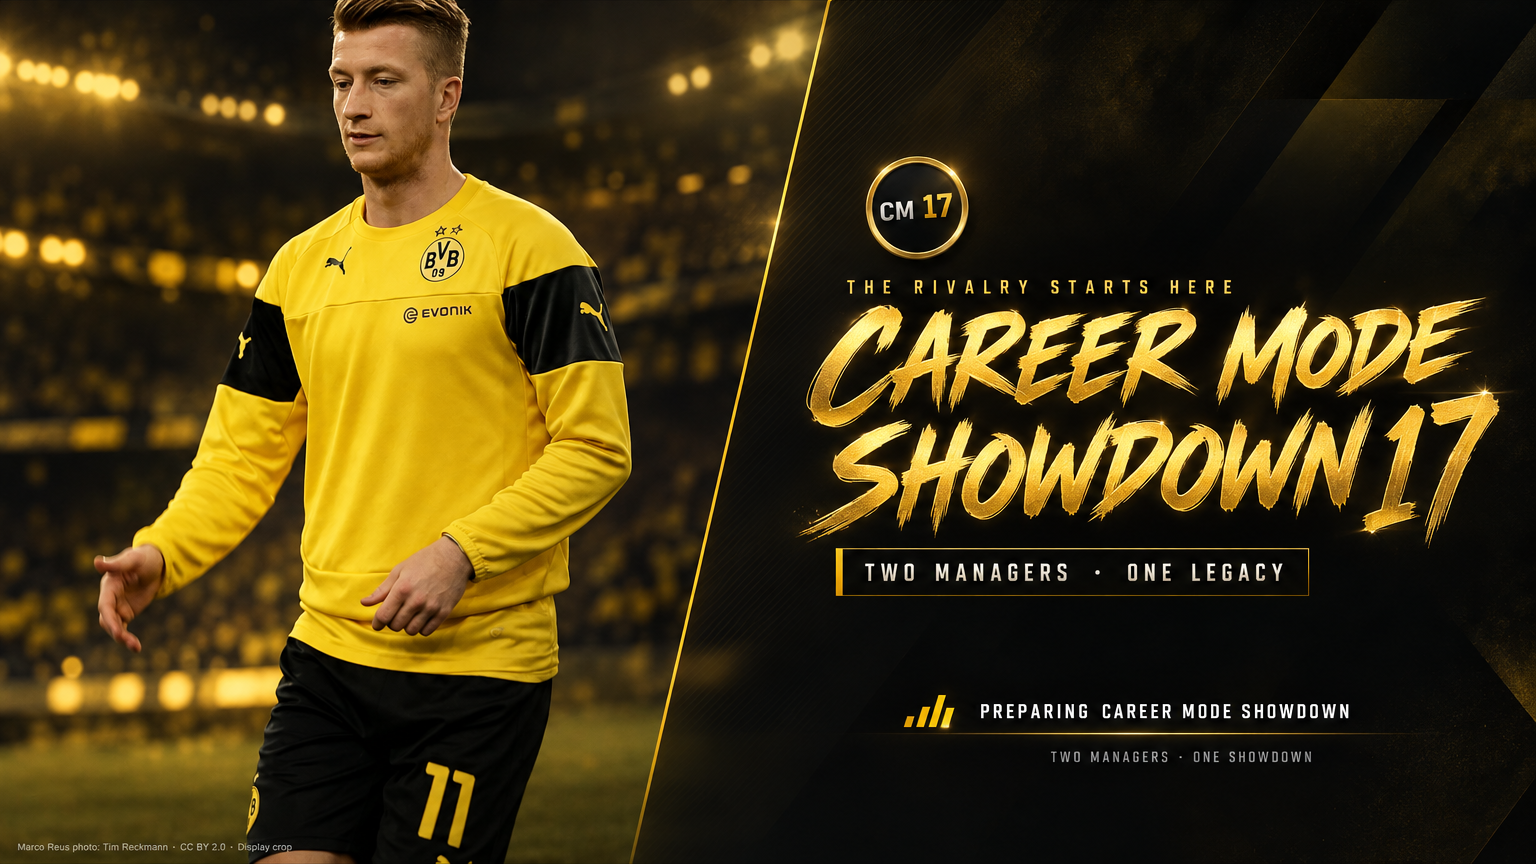
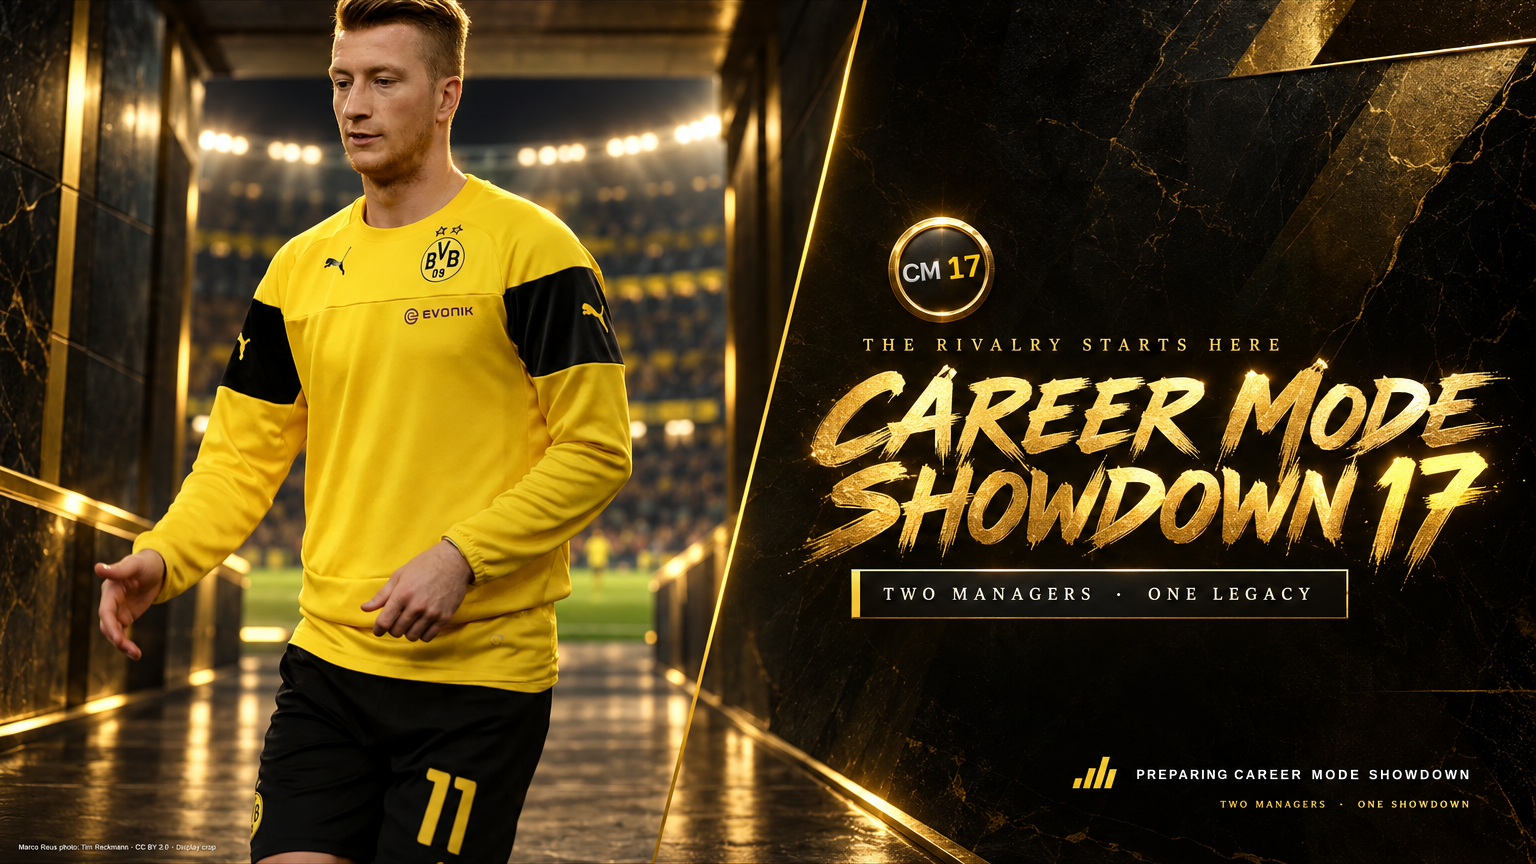
Mockups: re-approve NEXT_LOADING with the premium redo
Claude-Session: https://claude.ai/code/session_013pn5j1NjipzmcDNVpF7Fd3

diff --git a/project-documents/factory/mockups/README.md b/project-documents/factory/mockups/README.md
@@ -37,4 +37,4 @@ Nik's mockups and goal images. They show the look to reach. Some contain real cl
 | PHONE_RULE_BOOK.png | Rule Book | Sun 11 Oct 3:17 a.m. Eastern | Ticket 1588 13 of 14, after the stricter prompt (earlier tries invented rules and tabs). Every word matches live: section 01's six lines word for word, 02-06 as closed accordion rows, gear button top right, BACK TO MAIN MENU, bottom tabs HOME / CAREER / STANDINGS / STATS / RULES with RULES lit. New: one framed accordion that fits 393x660 with no scroll, gold-ringed numbers, calm stadium night. sha256 08231f324078e9de… |
 | PHONE_STANDINGS.png | Standings | Sun 11 Oct 3:53 a.m. Eastern | Ticket 1588 14 of 14, after the stricter prompt. Both managers unchanged (Daniel LEFT pointing, Nik RIGHT arms crossed), gear top right, live five-tab bar with STANDINGS lit. Every live word and number: THIS SHOWDOWN / CAREER switch, HEAD-TO-HEAD, SEASON 3 OF 3, SHOWDOWN POINTS 16 : 8, DANIEL LEADS, both club badges as live, and all seven rows on screen (Season Wins 2/1, Draws 0/0, Losses 1/2, Champions Leagues 1/1, League Titles 2/1, Domestic Cups 2/0, Total Trophies 5/2). Row labels shown in capitals (live is title case; keep live case when wiring if preferred). New: whole card fits 393x660 with no scroll, framed black-glass card, gold separators. sha256 3be8fa56ea8f8aff… |
 | PHONE_LOADING.png | Loading | Sun 11 Oct 3:40 a.m. Eastern | Ticket 1636 1 of 2, picked from two tries (Nik: "choose whichever is better"). Keeps the Marco Reus photo (OWNER-4 exception, same pose and kit) and its credit line, the live layout and every live word: CM17 badge, THE RIVALRY STARTS HERE, CAREER MODE SHOWDOWN 17 in the Home gold brush lettering, TWO MANAGERS · ONE LEGACY label, PREPARING CAREER MODE SHOWDOWN with gold pulse bars, TWO MANAGERS · ONE SHOWDOWN. New: black-and-gold stadium night instead of grey slate, one gold diagonal accent. Chosen over the other try for calmer light, square-cornered label like the rest of the game and a clearer face. No Nik or Daniel. sha256 c957a25ad10adce1… |
-| NEXT_LOADING.png | Loading (desktop) | Sun 11 Oct 3:49 a.m. Eastern | Ticket 1636 2 of 2, first try, cropped to 16:9 (1536x864). Same split as live: Marco Reus photo left (OWNER-4, same pose and kit) with its credit bottom left, title block right past one gold diagonal. Every live word and nothing else: CM17 badge, THE RIVALRY STARTS HERE, CAREER MODE SHOWDOWN 17 in the Home gold brush lettering, TWO MANAGERS · ONE LEGACY label, PREPARING CAREER MODE SHOWDOWN with gold pulse bars, TWO MANAGERS · ONE SHOWDOWN. New: black-and-gold stadium night instead of grey slate. No Nik or Daniel. sha256 af4923b1078c43e1… |
+| NEXT_LOADING.png | Loading (desktop, premium) | Sun 11 Oct 8:25 p.m. Eastern | Premium redo (ticket 1636 2 of 2, rewritten prompt), replaces the 3:49 a.m. picture, cropped to 16:9 (1536x864). Same split as live: Marco Reus photo left (OWNER-4, same pose and kit) with its credit bottom left, title block right past one gold diagonal. Every live word and nothing else: CM 17 medallion, THE RIVALRY STARTS HERE, CAREER MODE SHOWDOWN 17 gold brush title, TWO MANAGERS · ONE LEGACY plaque, PREPARING CAREER MODE SHOWDOWN with gold pulse bars, TWO MANAGERS · ONE SHOWDOWN. New: black-marble stadium tunnel with gold veins and the floodlit pitch behind Reus, heavy gold medallion, gold-framed plaque. No Nik or Daniel. sha256 907d5b7abf7d0a14… |
